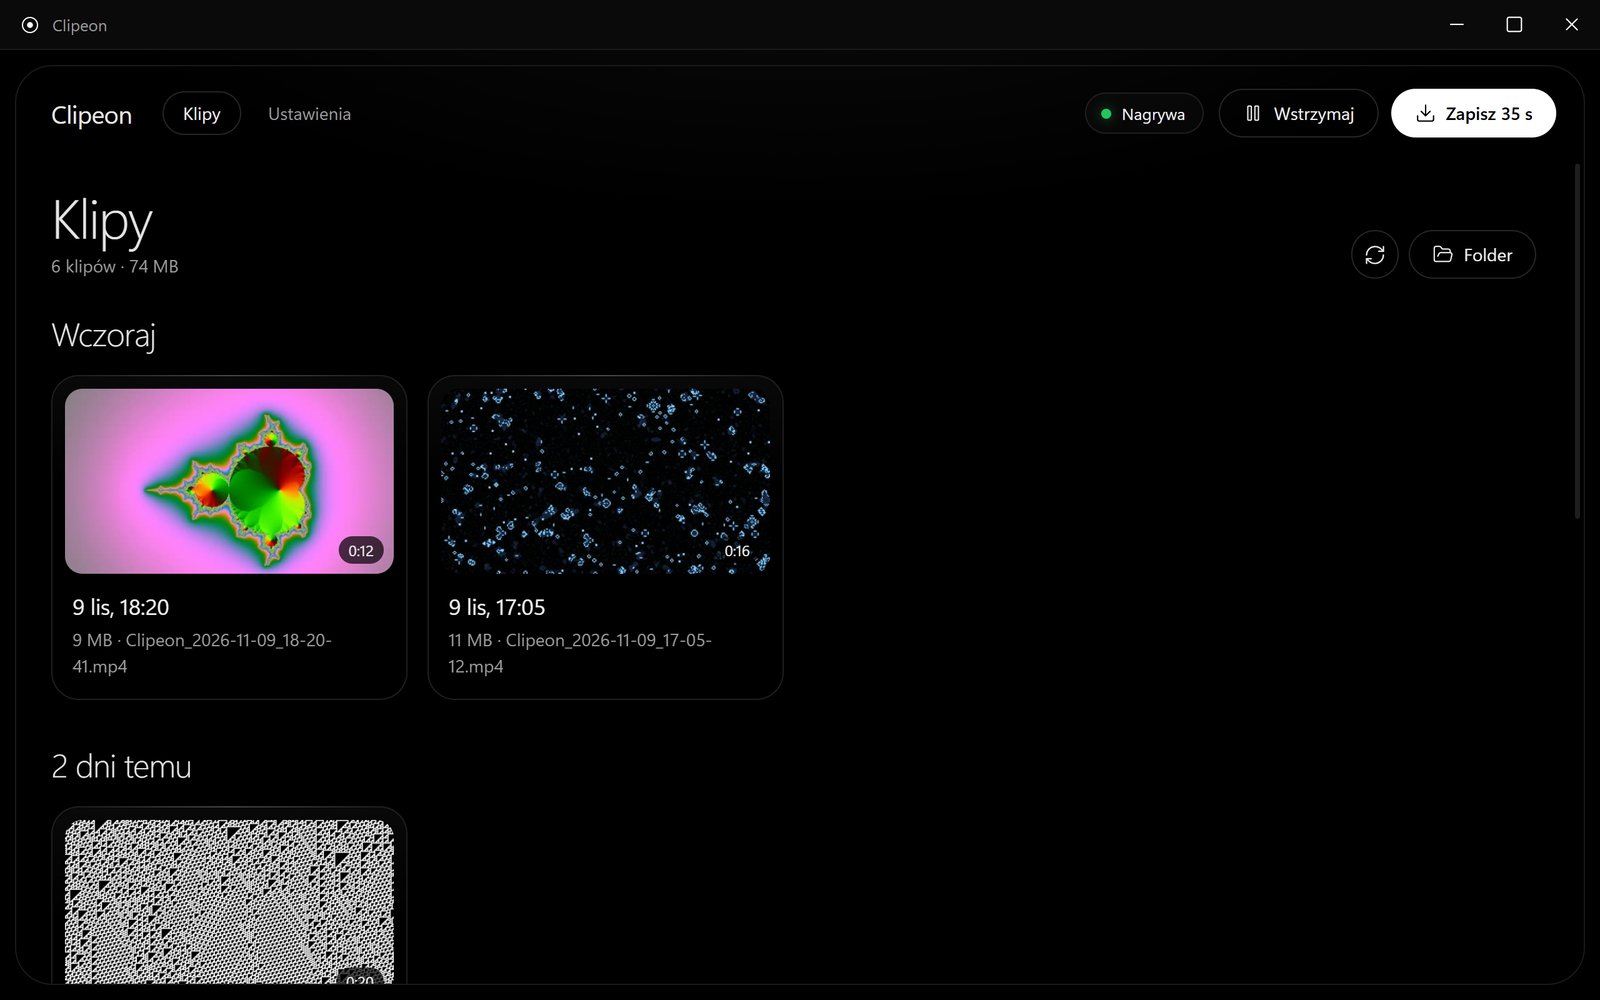
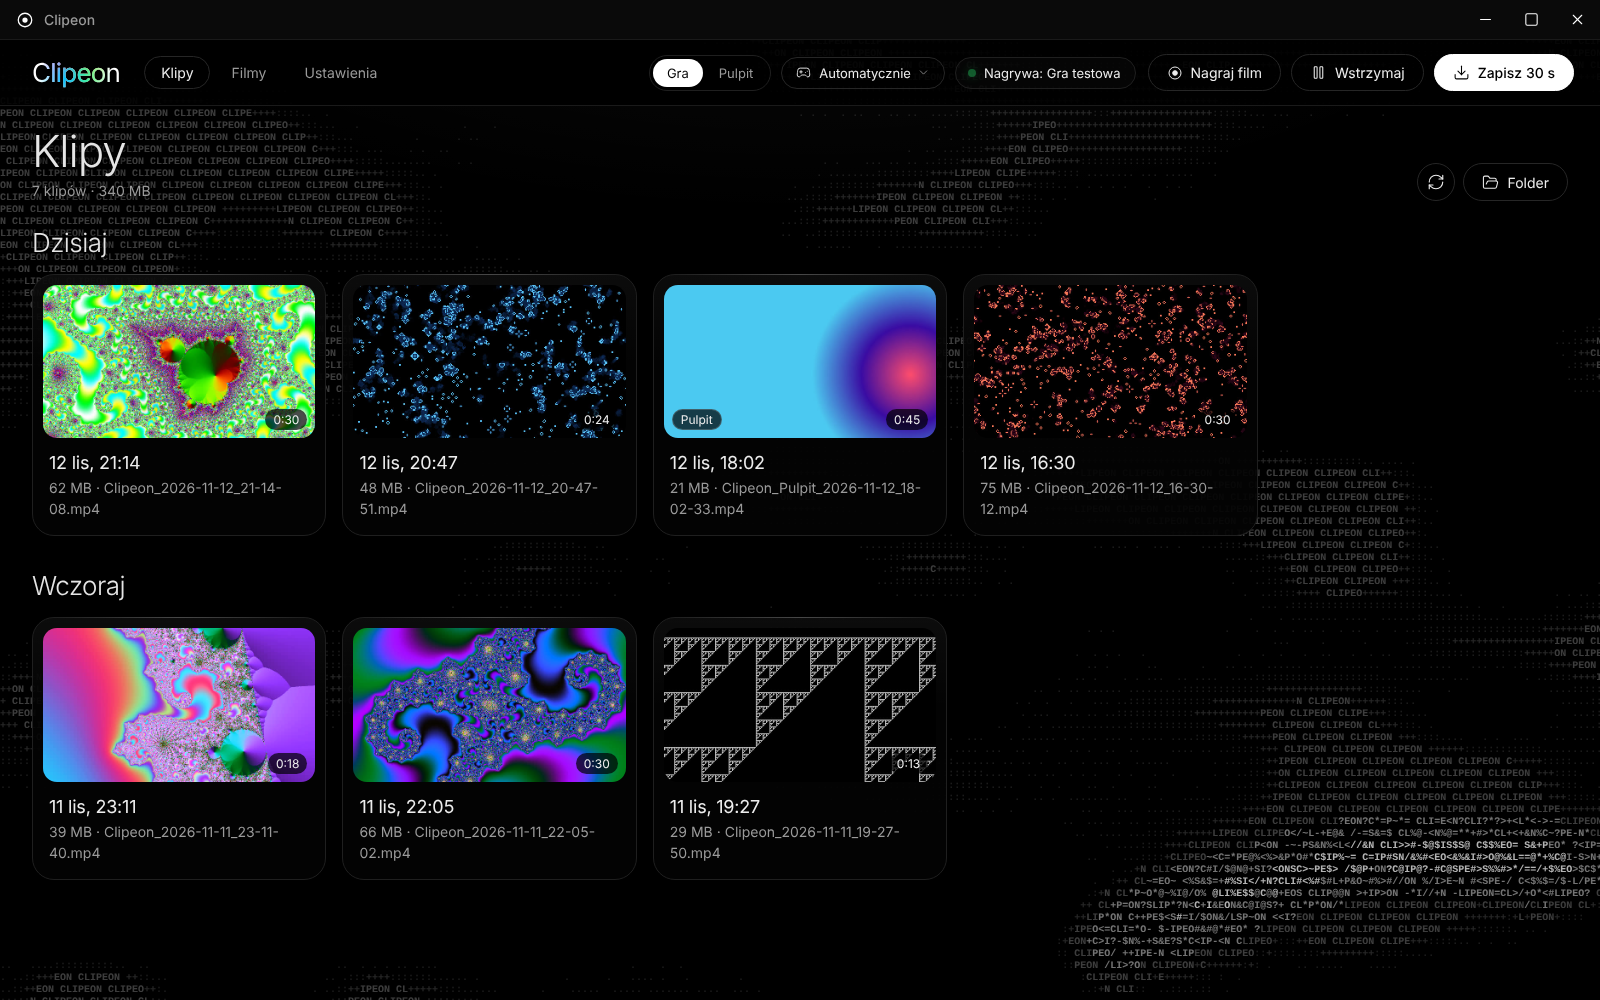
README: nowe zrzuty 1.4.0 (biblioteka, edytor, filmy, ustawienia) i opis filmów
Zrzuty pokazują okno bez ramki, tło ze smugą, zakładkę Filmy i nowe ustawienia;
stary zrzut zaznaczania (nieużywany) usunięty. README opisuje mniejsze filmy
(HEVC / AV1), Alt+F9 w szybkim starcie i ikonę na pasku zadań.

Przy okazji: długość filmów w bibliotece z godzinami (1:06:52), a pola
„Klatki i jakość” pod nazwą, żeby nazwa nie łamała się w wąskiej kolumnie.

diff --git a/ui/index.html b/ui/index.html
@@ -124,7 +124,7 @@
                   <div class="pole"><div class="segmenty" id="presety"></div></div>
                 </div>
 
-                <div class="ust">
+                <div class="ust ust-pod">
                   <div class="opis"><span>Klatki i jakość</span></div>
                   <div class="pole pola">
                     <label>Klatki/s<input type="number" id="fps" min="10" max="240" step="1"></label>
@@ -146,7 +146,7 @@
                     <div class="opis"><label for="monitor-pulpitu">Ekran pulpitu</label></div>
                     <div class="pole"><select id="monitor-pulpitu" aria-label="Ekran pulpitu"></select></div>
                   </div>
-                  <div class="ust">
+                  <div class="ust ust-pod">
                     <div class="opis">
                       <span>Klatki i jakość pulpitu</span>
                       <p class="pomoc" id="ram-pulpitu"></p>

diff --git a/ui/app.js b/ui/app.js
@@ -80,9 +80,12 @@ function dymek(tekst) {
 }
 
 const formatMB = (b) => (b >= 1e9 ? `${(b / 1e9).toFixed(1)} GB` : `${Math.round(b / 1e6)} MB`);
+// Długość klipu: „0:30”, „12:05”; od godziny „1:06:52” (filmy)
 const formatCzas = (s) => {
   s = Math.round(s);
-  return `${Math.floor(s / 60)}:${String(s % 60).padStart(2, "0")}`;
+  const g = Math.floor(s / 3600);
+  const m = Math.floor((s % 3600) / 60);
+  return `${g ? `${g}:${String(m).padStart(2, "0")}` : m}:${String(s % 60).padStart(2, "0")}`;
 };
 const formatData = (ms) =>
   new Date(ms).toLocaleString("pl-PL", { day: "numeric", month: "short", hour: "2-digit", minute: "2-digit" });

diff --git a/README.md b/README.md
@@ -13,16 +13,26 @@
 
 <p align="center"><img src="docs/screenshots/biblioteka.png" width="860" alt="Biblioteka klipów Clipeona"></p>
 
+<table>
+  <tr>
+    <td width="33%"><img src="docs/screenshots/edytor.png" alt="Edytor: przycinanie i ścieżki dźwięku"><p align="center">Edytor</p></td>
+    <td width="33%"><img src="docs/screenshots/filmy.png" alt="Zakładka Filmy w trakcie nagrywania"><p align="center">Filmy</p></td>
+    <td width="33%"><img src="docs/screenshots/ustawienia.png" alt="Ustawienia"><p align="center">Ustawienia</p></td>
+  </tr>
+</table>
+
 ## Funkcje
 
 - **Ostatnie sekundy gry jednym skrótem** — wciśnij **Alt+F10**, a ostatnie 30 s (do ustawienia od 5 s do 10 min) zapisze się jako MP4.
-- **Filmy** — „Nagraj film” albo **Alt+F9** nagrywa bez limitu czasu, aż wciśniesz jeszcze raz. Film nie obciąża gry dodatkowo, a klipy działają w jego trakcie jak zwykle. Po nagraniu Clipeon może go sam zmniejszyć (HEVC albo AV1).
+- **Filmy** — „Nagraj film” albo **Alt+F9** nagrywa bez limitu czasu, aż wciśniesz jeszcze raz. Film nie obciąża gry dodatkowo, a klipy działają w jego trakcie jak zwykle. Filmy mają własną zakładkę.
+- **Mniejsze filmy** — po nagraniu Clipeon może w tle zapisać film od nowa jako HEVC (ok. połowa rozmiaru) albo AV1 (ok. jedna trzecia). Robi to karta graficzna.
 - **Lekki** — obraz przechwytuje i koduje karta graficzna (AMD, NVIDIA, Intel), bez kopiowania klatek przez procesor; nic nie trafia na dysk, dopóki nie zapiszesz.
 - **Tryb pulpitu** — przełącznik „Gra | Pulpit” na pasku: pulpit ma własny ekran i lżejsze ustawienia (domyślnie 30 FPS, 12 Mb/s), a ekran wybierzesz jednym kliknięciem.
 - **Dźwięk gry i mikrofon osobno** — w edytorze dwie ścieżki z wykresem dźwięku: ściszysz albo wyciszysz jedno lub drugie i od razu to słychać.
 - **Edytor** — przycinanie, kadrowanie, zmniejszanie do 10 / 20 / 50 / 100 MB i zapis jako zapętlony GIF / WebP, np. pod Discorda. Głośność słychać od razu, a `←` / `→` przewijają o 5 s, `,` / `.` o klatkę.
 - **Przeciągnij i upuść** — gotowy klip przeciągasz prosto do Discorda, przeglądarki albo folderu.
 - **Biblioteka** — klipy pogrupowane według dni, zaznaczanie wielu naraz, usuwanie do Kosza.
+- **Czarny, spokojny wygląd** — w tle okna leżą znaki, a ruch myszki zostawia za sobą gasnącą smugę. Tło działa tylko przy otwartym oknie (w grze nie kosztuje nic) i da się je wyłączyć, tak jak kolory na napisie „Clipeon”.
 - **Nie przestaje nagrywać po cichu** — sam wznawia nagrywanie po problemie ze sterownikiem, przechodzi na inny sposób przechwytywania, gdy któryś nie działa, i ostrzega, gdy coś jest nie tak.
 
 ## Wymagania
@@ -33,8 +43,9 @@
 ## Szybki start
 
 1. Pobierz `Clipeon_x.y.z_x64-setup.exe` z [najnowszego wydania](https://github.com/Atsuieon/Clipeon/releases/latest) i zainstaluj.
-2. Clipeon działa w tle — ikona przy zegarze. Kropka jest zielona, gdy nagrywa.
+2. Clipeon działa w tle — ikona na pasku zadań, obok zegara. Kropka jest zielona, gdy nagrywa.
 3. Graj i wciśnij **Alt+F10**, gdy wydarzy się coś wartego zapisania. Klik w ikonę otwiera bibliotekę klipów.
+4. Chcesz nagrać całą rozgrywkę? Wciśnij **Alt+F9** na początku i jeszcze raz na końcu. Film znajdziesz w zakładce **Filmy**.
 
 ## Pytania
 
@@ -62,9 +73,17 @@ Na czas ustawiania skróty Clipeona są wyłączone, więc nic się przy tym nie
 <details>
 <summary><b>Jak nagrać pulpit zamiast gry?</b></summary>
 
-Na pasku u góry okna kliknij **Pulpit** (albo w menu ikony przy zegarze „Tryb: Pulpit”). Obok wybierzesz ekran.
+Na pasku u góry okna kliknij **Pulpit** (albo w menu ikony na pasku zadań „Tryb: Pulpit”). Obok wybierzesz ekran.
 Pulpit ma osobne ustawienia w Ustawieniach → Tryb pulpitu, więc przełączanie nie zmienia ustawień gry.
 Klipy z pulpitu mają nazwy `Clipeon_Pulpit_…` i znaczek „Pulpit” w bibliotece.
+</details>
+
+<details>
+<summary><b>Filmy zajmują dużo miejsca.</b></summary>
+
+Ustawienia → Zapisywanie klipów → **Rozmiar filmów**: wybierz HEVC (ok. połowa rozmiaru) albo AV1 (ok. jedna trzecia).
+Po zakończeniu nagrania Clipeon zapisze film od nowa w tle, a do tego czasu film leży w bibliotece w pełnej jakości.
+Pod listą widać, ile zajmie godzina filmu. Opcje pojawiają się tylko wtedy, gdy Twoja karta graficzna umie dany format.
 </details>
 
 <details>
@@ -85,7 +104,7 @@ Clipeon to ta sama aplikacja pod nową nazwą. Zainstaluj go: instalator sam usu
 ## English
 
 Clipeon keeps the last seconds of your gameplay in memory and saves them as an MP4 when you press **Alt+F10**;
-**Alt+F9** starts and stops a long recording with no time limit.
+**Alt+F9** starts and stops a long recording with no time limit, which can then be re-encoded to HEVC or AV1 in the background to save space.
 GPU capture and encoding (AMD / NVIDIA / Intel), a desktop recording mode, separate game and mic tracks, trimming, shrink-to-size for Discord,
 drag-and-drop clips into other apps. Windows 10 2004+ / 11. [Download the latest release](https://github.com/Atsuieon/Clipeon/releases/latest)
 — the installer is unsigned, so SmartScreen may warn: *More info → Run anyway*. The interface is in Polish.

diff --git a/CHANGELOG.md b/CHANGELOG.md
@@ -1,5 +1,11 @@
 # Zmiany
 
+## Następna wersja
+
+- Długość filmów w bibliotece pokazuje godziny („1:06:52” zamiast „66:52”).
+- „Klatki i jakość” w Ustawieniach: pola leżą pod nazwą, więc nazwa nie łamie się już w wąskiej kolumnie.
+- Nowe zrzuty ekranu w README.
+
 ## 1.4.0
 
 - **Filmy — długie nagrywanie.** Nowy przycisk „Nagraj film” na pasku (i w menu ikony przy zegarze) albo skrót
